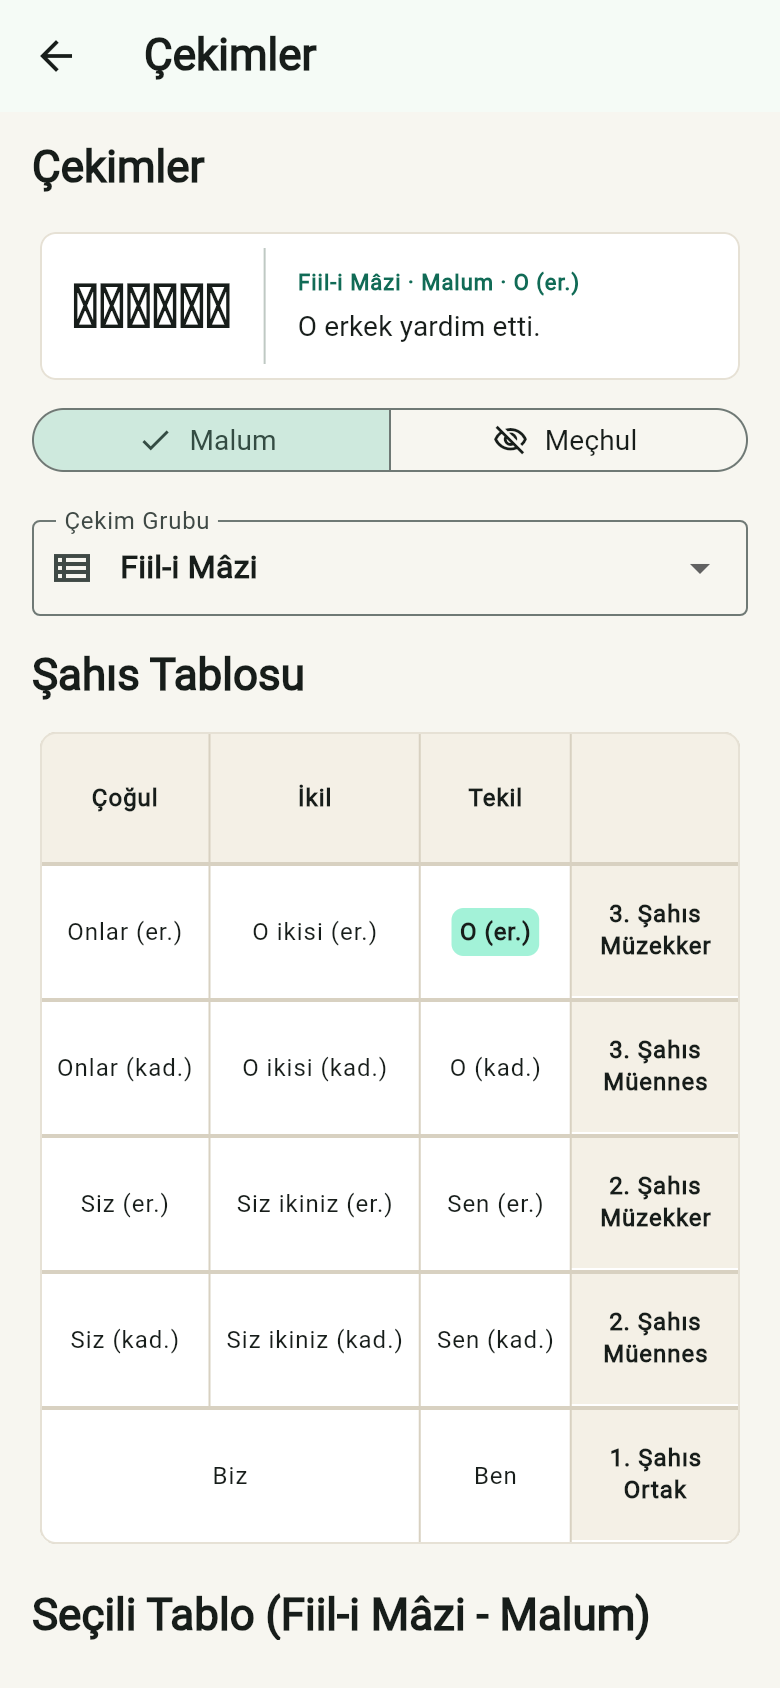
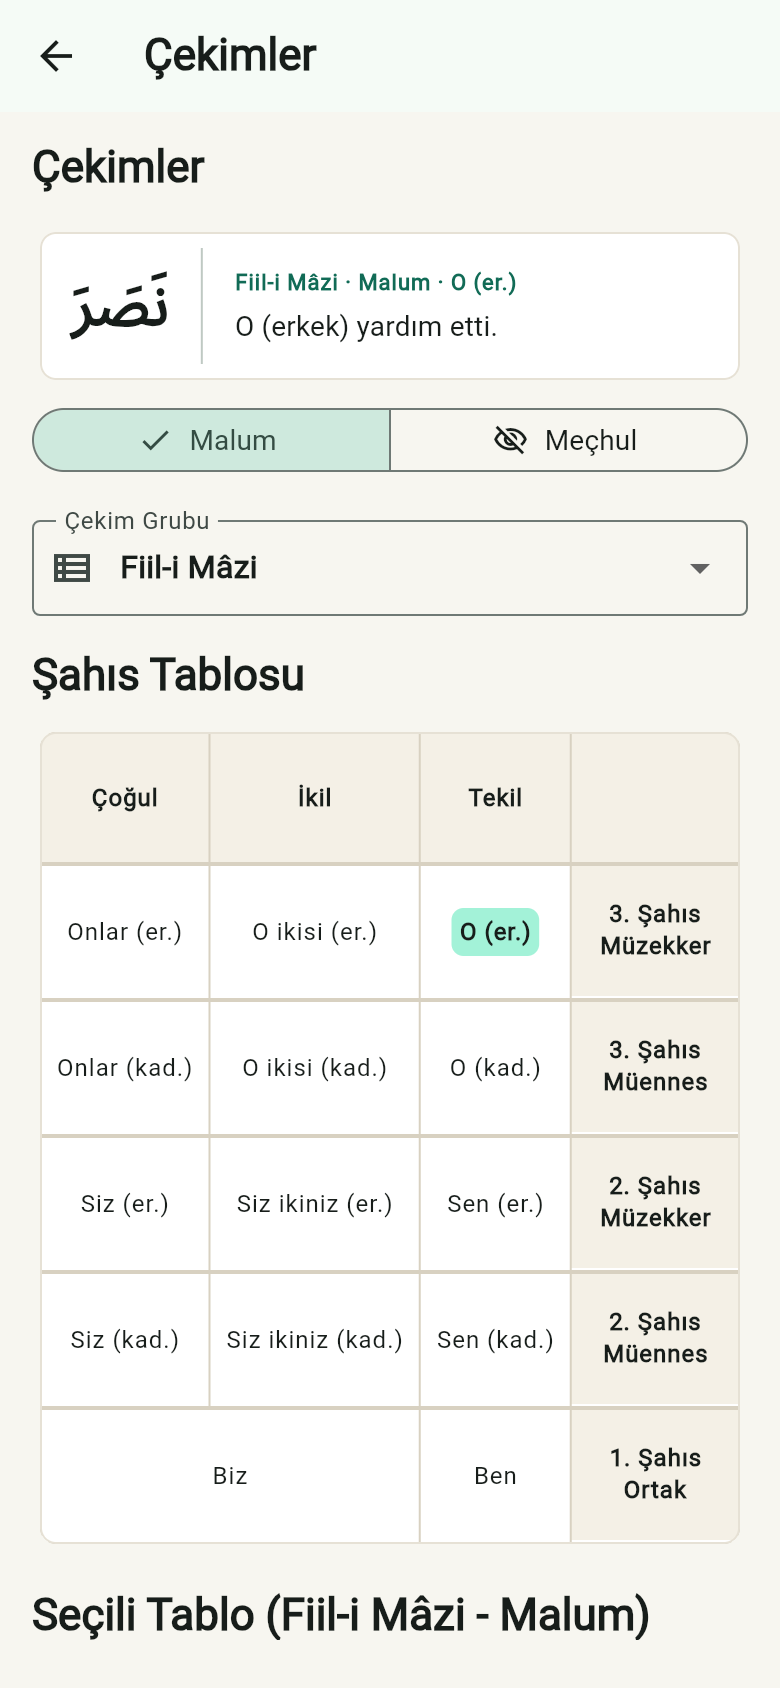
docs: expand screenshot generation to 10 screens and update README with showcase and live demo

Changed region(s): [[0.0923, 0.154, 0.7385, 0.2156]]

diff --git a/scripts/visual-check.js b/scripts/visual-check.js
@@ -39,6 +39,22 @@ async function main() {
     fullPage: true,
   });
 
+  // 2. Dersler Ekranı
+  await tap(page, 117, navigationBarY);
+  await page.screenshot({
+    path: path.join(outputDir, '05-lessons-mobile.png'),
+    fullPage: true,
+  });
+
+  // 3. Ders Detay Ekranı
+  await tap(page, 165, 154);
+  await page.screenshot({
+    path: path.join(outputDir, '06-lesson-detail-mobile.png'),
+    fullPage: true,
+  });
+  await tap(page, 28, 28); // Geri dön
+
+  // 4. Tablo Ekranı
   await tap(page, 195, navigationBarY);
   await tap(page, 165, 154);
   await page.screenshot({
@@ -46,18 +62,50 @@ async function main() {
     fullPage: true,
   });
 
-  await tap(page, 28, 28);
+  // 5. Zamirler Ekranı
+  await tap(page, 28, 28); // Geri dön
   await tap(page, 165, 230);
   await page.screenshot({
     path: path.join(outputDir, '04-pronouns-mobile.png'),
     fullPage: true,
   });
+  await tap(page, 28, 28); // Geri dön
 
-  await tap(page, 28, 28);
+  // 6. Pratik Ekranı
   await tap(page, 275, navigationBarY);
-  await tap(page, 150, 285);
+  await page.screenshot({
+    path: path.join(outputDir, '07-practice-modes-mobile.png'),
+    fullPage: true,
+  });
+
+  // 7. Eşleştirme Alıştırması
+  await tap(page, 165, 154);
+  await page.screenshot({
+    path: path.join(outputDir, '08-matching-practice-mobile.png'),
+    fullPage: true,
+  });
+  await tap(page, 28, 28); // Geri dön
+
+  // 8. Çoktan Seçmeli
+  await tap(page, 165, 285);
   await page.screenshot({
     path: path.join(outputDir, '03-practice-mobile.png'),
+    fullPage: true,
+  });
+  await tap(page, 28, 28); // Geri dön
+
+  // 9. Tabloyu Doldur
+  await tap(page, 165, 415);
+  await page.screenshot({
+    path: path.join(outputDir, '09-table-fill-practice-mobile.png'),
+    fullPage: true,
+  });
+  await tap(page, 28, 28); // Geri dön
+
+  // 10. Hakkında Ekranı
+  await tap(page, 351, navigationBarY);
+  await page.screenshot({
+    path: path.join(outputDir, '10-about-mobile.png'),
     fullPage: true,
   });
 

diff --git a/README.md b/README.md
@@ -2,6 +2,31 @@
 
 Mobil öncelikli Arapça sarf çalışma uygulaması.
 
+🌐 **Canlı Demo (Web):** [karaketir16.github.io/Emsile](https://karaketir16.github.io/Emsile/)
+
+## Ekran Görüntüleri
+
+Uygulamanın mobil öncelikli arayüzünden görünümler:
+
+<p align="center">
+  <img src="docs/screenshots/01-home-mobile.png" width="24%" alt="Ana Sayfa" />
+  <img src="docs/screenshots/05-lessons-mobile.png" width="24%" alt="Dersler" />
+  <img src="docs/screenshots/06-lesson-detail-mobile.png" width="24%" alt="Ders Detayı" />
+  <img src="docs/screenshots/02-table-mobile.png" width="24%" alt="Çekim Tablosu" />
+</p>
+
+<p align="center">
+  <img src="docs/screenshots/04-pronouns-mobile.png" width="24%" alt="Zamir Tablosu" />
+  <img src="docs/screenshots/07-practice-modes-mobile.png" width="24%" alt="Pratik Seçimi" />
+  <img src="docs/screenshots/08-matching-practice-mobile.png" width="24%" alt="Eşleştirme" />
+  <img src="docs/screenshots/03-practice-mobile.png" width="24%" alt="Çoktan Seçmeli" />
+</p>
+
+<p align="center">
+  <img src="docs/screenshots/09-table-fill-practice-mobile.png" width="24%" alt="Tabloyu Doldur" />
+  <img src="docs/screenshots/10-about-mobile.png" width="24%" alt="Hakkında" />
+</p>
+
 ## Özellikler
 
 - Muhtelife, Muttaride ve Şahıs Zamirleri dersleri
@@ -9,6 +34,7 @@ Mobil öncelikli Arapça sarf çalışma uygulaması.
 - Ayrı ve bitişik zamir tabloları
 - Filtrelenebilir çoktan seçmeli pratik
 - Fiil ve isim tabloları için sürükle-bırak “Tabloyu Doldur” alıştırması
+- Eşleştirme alıştırması (matching practice) modu
 - Malum/meçhul, şahıs, sayı, cinsiyet ve kırık çoğul desteği
 
 ## Veri
@@ -45,6 +71,7 @@ flutter analyze
 flutter test
 flutter build web
 npm run validate-seed
+npm run visual-check
 ```
 
 ## Belgeler